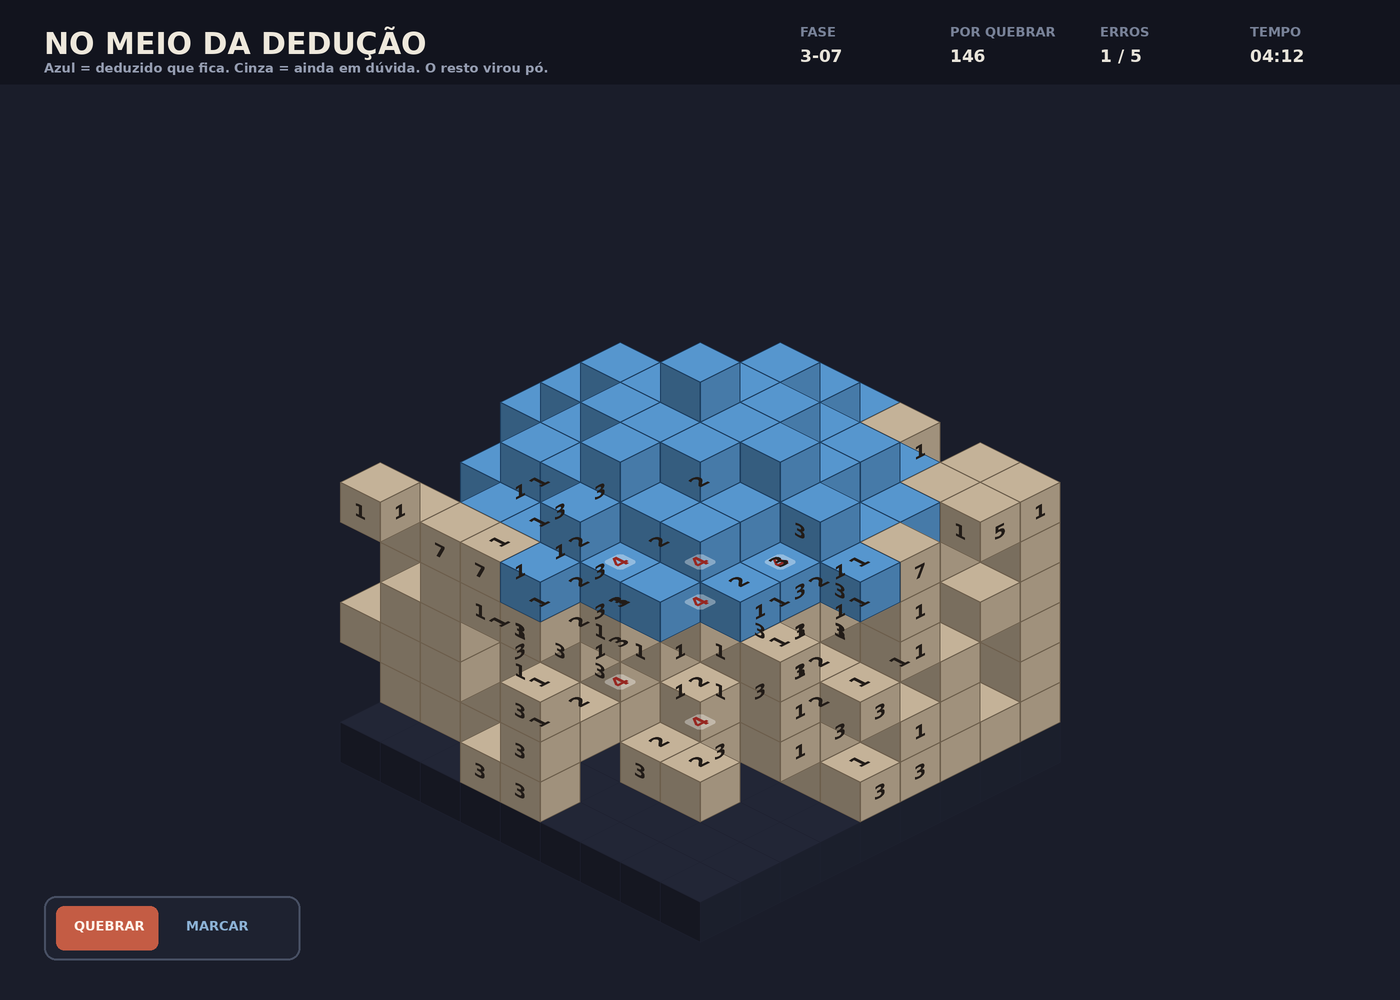
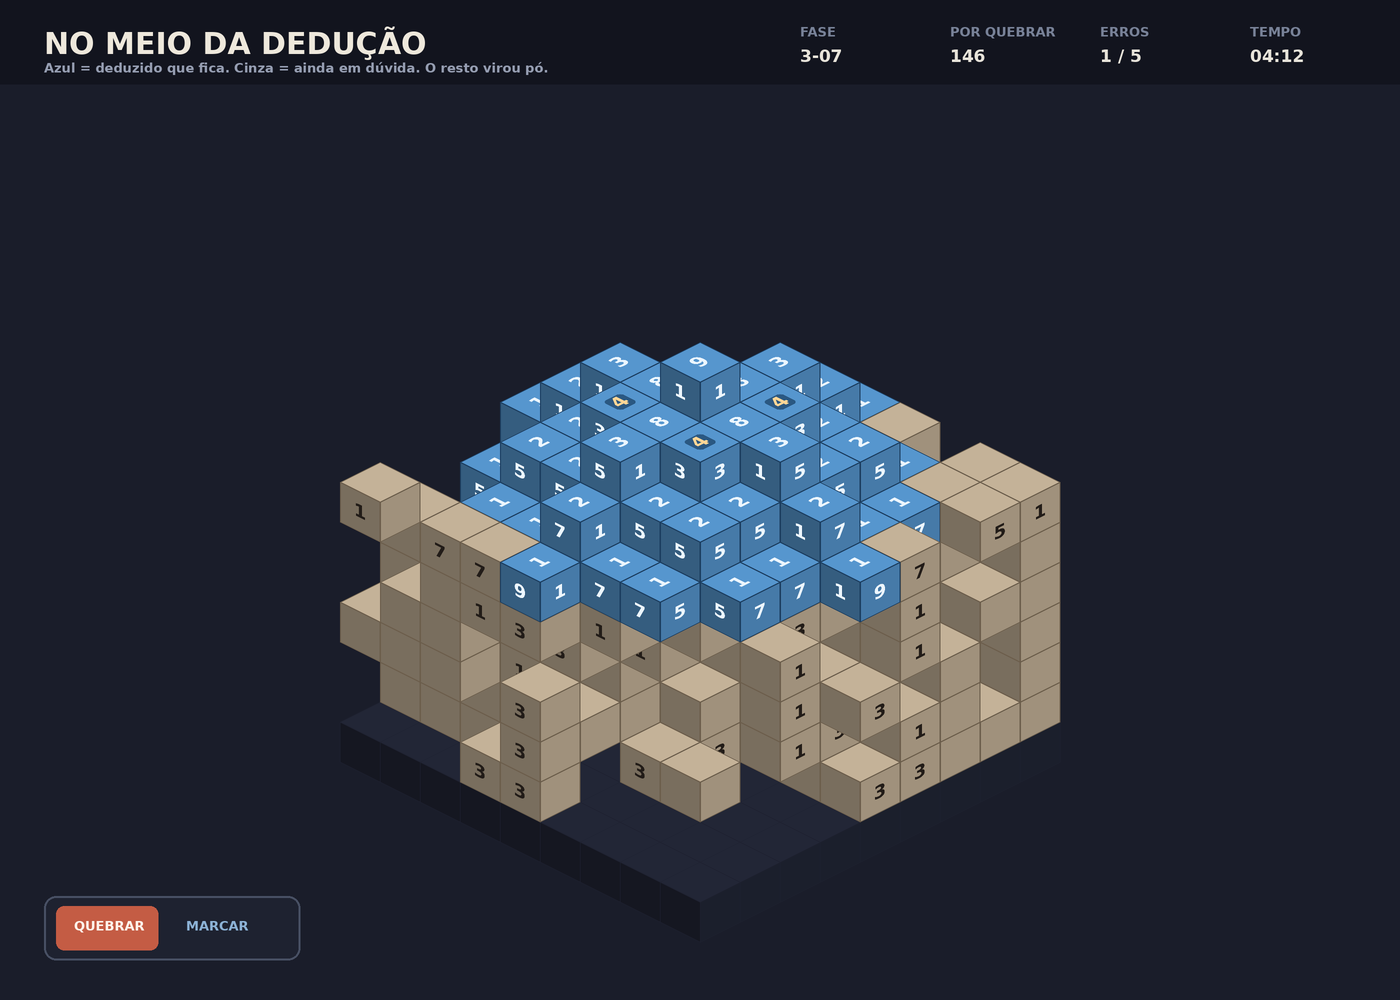
Picross 3D: corrige as pistas que boiavam durante a resolução
Dois defeitos na colocação dos números, nenhum deles produzindo erro ou aviso.

1. Pista repetida. Todo cubo com a face livre desenhava o número da fileira.
   Numa fileira partida ao meio, os dois pedaços expostos mostravam o mesmo
   número, e o de trás parecia boiar dentro do buraco. Agora só o cubo mais
   externo de cada fileira mostra a pista.

2. Texto fora da ordem do pintor. Todo o texto saía depois de todos os cubos,
   então a pista de um cubo de trás era pintada por cima do cubo da frente que
   devia escondê-la. Agora cada pista sai junto do seu cubo, na mesma ordem.

Cubo marcado voltou a exibir a sua pista, em cor que lê sobre o azul — antes
ele era pulado, o que deixava a fileira inteira sem número.

Os dois viraram teste antes da correção: 5 das 7 verificações de
teste_pistas.py falhavam. Agora 7/7. Bloco intacto reconferido, sem regressão.

Claude-Session: https://claude.ai/code/session_01FCpVqRg1sgoyGERJvFP8DL

diff --git a/estudos/picross3d/cenas.py b/estudos/picross3d/cenas.py
@@ -44,7 +44,7 @@ def simbolo(grupos):
     return "" if grupos <= 1 else ("o" if grupos == 2 else "[]")
 
 
-def desenhar_pista(img, x, y, z, ox, oy, face, total, grupos):
+def desenhar_pista(img, x, y, z, ox, oy, face, total, grupos, marcado=False):
     if total == 0:
         return
     p0, u, v = voxel.faces_do_cubo(x, y, z, ox, oy)[face]
@@ -53,9 +53,46 @@ def desenhar_pista(img, x, y, z, ox, oy, face, total, grupos):
     u = (u[0] * (1 - 2 * m), u[1] * (1 - 2 * m))
     v = (v[0] * (1 - 2 * m), v[1] * (1 - 2 * m))
     s = simbolo(grupos)
-    cor = (34, 28, 24, 255) if not s else (150, 40, 34, 255)
-    fundo = None if not s else ((255, 255, 255, 90))
+    if marcado:
+        cor = (236, 246, 255, 255) if not s else (255, 214, 150, 255)
+        fundo = None if not s else (12, 44, 76, 150)
+    else:
+        cor = (34, 28, 24, 255) if not s else (150, 40, 34, 255)
+        fundo = None if not s else (255, 255, 255, 90)
     voxel.texto_na_face(img, str(total), p0, u, v, 0.74, cor, fundo)
+
+
+def faces_com_pista(presentes):
+    """Quais faces recebem número, e em que ordem desenhar.
+
+    Duas regras que a versão anterior quebrava, sem dar erro nenhum:
+
+    1. Só o cubo MAIS EXTERNO de cada fileira mostra a pista. Antes, todo cubo
+       com a face livre mostrava — então uma fileira partida ao meio exibia o
+       mesmo número duas vezes, um deles boiando no meio do buraco.
+    2. A lista sai na ordem do pintor (fundo -> frente), para o número ser
+       pintado junto com o seu cubo. Antes, todo o texto vinha depois de todos
+       os cubos, então a pista de um cubo de trás aparecia POR CIMA do cubo da
+       frente que deveria escondê-la.
+    """
+    externo_y, externo_x, externo_z = {}, {}, {}
+    for (x, y, z) in presentes:
+        if externo_y.get((x, z), -1) < y:
+            externo_y[(x, z)] = y
+        if externo_x.get((y, z), -1) < x:
+            externo_x[(y, z)] = x
+        if externo_z.get((x, y), -1) < z:
+            externo_z[(x, y)] = z
+
+    saida = []
+    for (x, y, z) in sorted(presentes, key=lambda p: p[0] + p[1] + p[2]):
+        if externo_y.get((x, z)) == y:
+            saida.append((x, y, z, "topo"))
+        if externo_x.get((y, z)) == x:
+            saida.append((x, y, z, "x+"))
+        if externo_z.get((x, y)) == z:
+            saida.append((x, y, z, "z+"))
+    return saida
 
 
 def cena(caminho, presentes, marcados, revelado=False, titulo="", legenda="",
@@ -71,30 +108,28 @@ def cena(caminho, presentes, marcados, revelado=False, titulo="", legenda="",
     for (x, y, z) in voxel.ordem(sombra):
         voxel.desenhar_cubo(d, x, y, z, ox, oy, (34, 38, 54), (30, 33, 48), largura=1)
 
+    pistas_de = {}
+    if mostrar_pistas:
+        for (x, y, z, face) in faces_com_pista(presentes):
+            pistas_de.setdefault((x, y, z), []).append(face)
+
     for (x, y, z) in voxel.ordem(presentes):
+        marcado = (x, y, z) in marcados
         if revelado:
             cor = CHAPEU if y >= 5 else PE
             borda = (56, 30, 28) if y >= 5 else (150, 132, 108)
-        elif (x, y, z) in marcados:
+        elif marcado:
             cor, borda = MARCADA, (28, 62, 96)
         else:
             cor, borda = PEDRA, (108, 94, 76)
         voxel.desenhar_cubo(d, x, y, z, ox, oy, cor, borda)
 
-    if mostrar_pistas:
-        vis = set(presentes)
-        for (x, y, z) in presentes:
-            if (x, y, z) in marcados:
-                continue
-            if (x, y + 1, z) not in vis:
-                t, g = PY[(x, z)]
-                desenhar_pista(img, x, y, z, ox, oy, "topo", t, g)
-            if (x + 1, y, z) not in vis:
-                t, g = PX[(y, z)]
-                desenhar_pista(img, x, y, z, ox, oy, "x+", t, g)
-            if (x, y, z + 1) not in vis:
-                t, g = PZ[(x, y)]
-                desenhar_pista(img, x, y, z, ox, oy, "z+", t, g)
+        # a pista sai JUNTO do seu cubo: o cubo desenhado depois cobre o número
+        # de trás, como tem que ser.
+        for face in pistas_de.get((x, y, z), ()):
+            tabela = {"topo": (PY, (x, z)), "x+": (PX, (y, z)), "z+": (PZ, (x, y))}
+            t, g = tabela[face][0][tabela[face][1]]
+            desenhar_pista(img, x, y, z, ox, oy, face, t, g, marcado)
 
     hud(img, d, titulo, legenda, presentes, marcados, revelado)
     return voxel.salvar(img, caminho)

diff --git a/estudos/picross3d/teste_pistas.py b/estudos/picross3d/teste_pistas.py
@@ -1,0 +1,42 @@
+"""Testes da colocação das pistas. Escritos ANTES da correção, para pegarem o defeito."""
+import sys
+sys.path.insert(0, "/home/user/joabcostamd/estudos/picross3d")
+import cenas
+
+falhas = []
+
+
+def checa(nome, cond):
+    print(f"  [{'ok' if cond else 'FALHA'}]  {nome}")
+    if not cond:
+        falhas.append(nome)
+
+
+# Uma coluna partida ao meio: cubos em y=0,1 e y=5,6, com buraco entre eles.
+coluna = {(0, 0, 0), (0, 1, 0), (0, 5, 0), (0, 6, 0)}
+faces = cenas.faces_com_pista(coluna)
+
+topo = [f for f in faces if f[3] == "topo"]
+checa("coluna partida mostra a pista do topo UMA vez só", len(topo) == 1)
+checa("e ela fica no cubo mais alto que sobrou", topo and topo[0][:3] == (0, 6, 0))
+
+# Mesma checagem nos outros dois eixos.
+linha_x = {(0, 0, 0), (1, 0, 0), (5, 0, 0), (6, 0, 0)}
+fx = [f for f in cenas.faces_com_pista(linha_x) if f[3] == "x+"]
+checa("fileira partida em x mostra a pista uma vez", len(fx) == 1)
+checa("e no cubo de maior x", fx and fx[0][:3] == (6, 0, 0))
+
+linha_z = {(0, 0, 0), (0, 0, 1), (0, 0, 5), (0, 0, 6)}
+fz = [f for f in cenas.faces_com_pista(linha_z) if f[3] == "z+"]
+checa("fileira partida em z mostra a pista uma vez", len(fz) == 1)
+checa("e no cubo de maior z", fz and fz[0][:3] == (0, 0, 6))
+
+# As pistas têm que sair na MESMA ordem de pintura dos cubos, senão o número
+# de um cubo de trás aparece por cima do cubo da frente.
+bloco = {(x, y, z) for x in range(3) for y in range(3) for z in range(3)}
+seq = cenas.faces_com_pista(bloco)
+prof = [x + y + z for (x, y, z, _) in seq]
+checa("as pistas saem na ordem do pintor (fundo -> frente)", prof == sorted(prof))
+
+print(f"\n{'TODAS PASSARAM' if not falhas else str(len(falhas)) + ' FALHA(S)'} — {len(falhas)} de 7")
+sys.exit(1 if falhas else 0)

diff --git a/estudos/picross3d/README.md b/estudos/picross3d/README.md
@@ -27,6 +27,12 @@ fazem parte da figura**. O símbolo diz como estão distribuídos:
 
 É a regra do Picross 3D, e é o que torna a dedução possível sem chutar.
 
+## Testes
+
+```bash
+./estudos/picross3d/testar.sh      # 7 verificações, < 1 s
+```
+
 ## Decisões medidas
 
 **Gato foi tentado e descartado.** Em isométrica, corpo e cabeça de larguras
@@ -36,3 +42,17 @@ cogumelo (chapéu largo sobre pé fino) lê de longe.
 **Número chapado por cima do cubo não convence.** As pistas são deformadas para
 o plano da face por transformação afim (`voxel.texto_na_face`). Sem isso a
 maquete parece diagrama, não jogo.
+
+**Números boiando durante a resolução.** Dois defeitos, nenhum dava erro:
+
+1. *Pista repetida.* Todo cubo com a face livre desenhava o número da sua
+   fileira. Numa fileira partida ao meio, os dois pedaços expostos mostravam o
+   MESMO número — e o de trás parecia boiar dentro do buraco. Correção: só o
+   cubo mais externo de cada fileira mostra a pista.
+2. *Texto fora da ordem do pintor.* Todo o texto era desenhado depois de todos
+   os cubos, então a pista de um cubo de trás era pintada POR CIMA do cubo da
+   frente que devia escondê-la. Correção: cada pista sai junto do seu cubo, na
+   mesma ordem de pintura.
+
+Os dois viraram teste antes da correção (`teste_pistas.py`): 5 das 7
+verificações falhavam, e passaram a passar.
